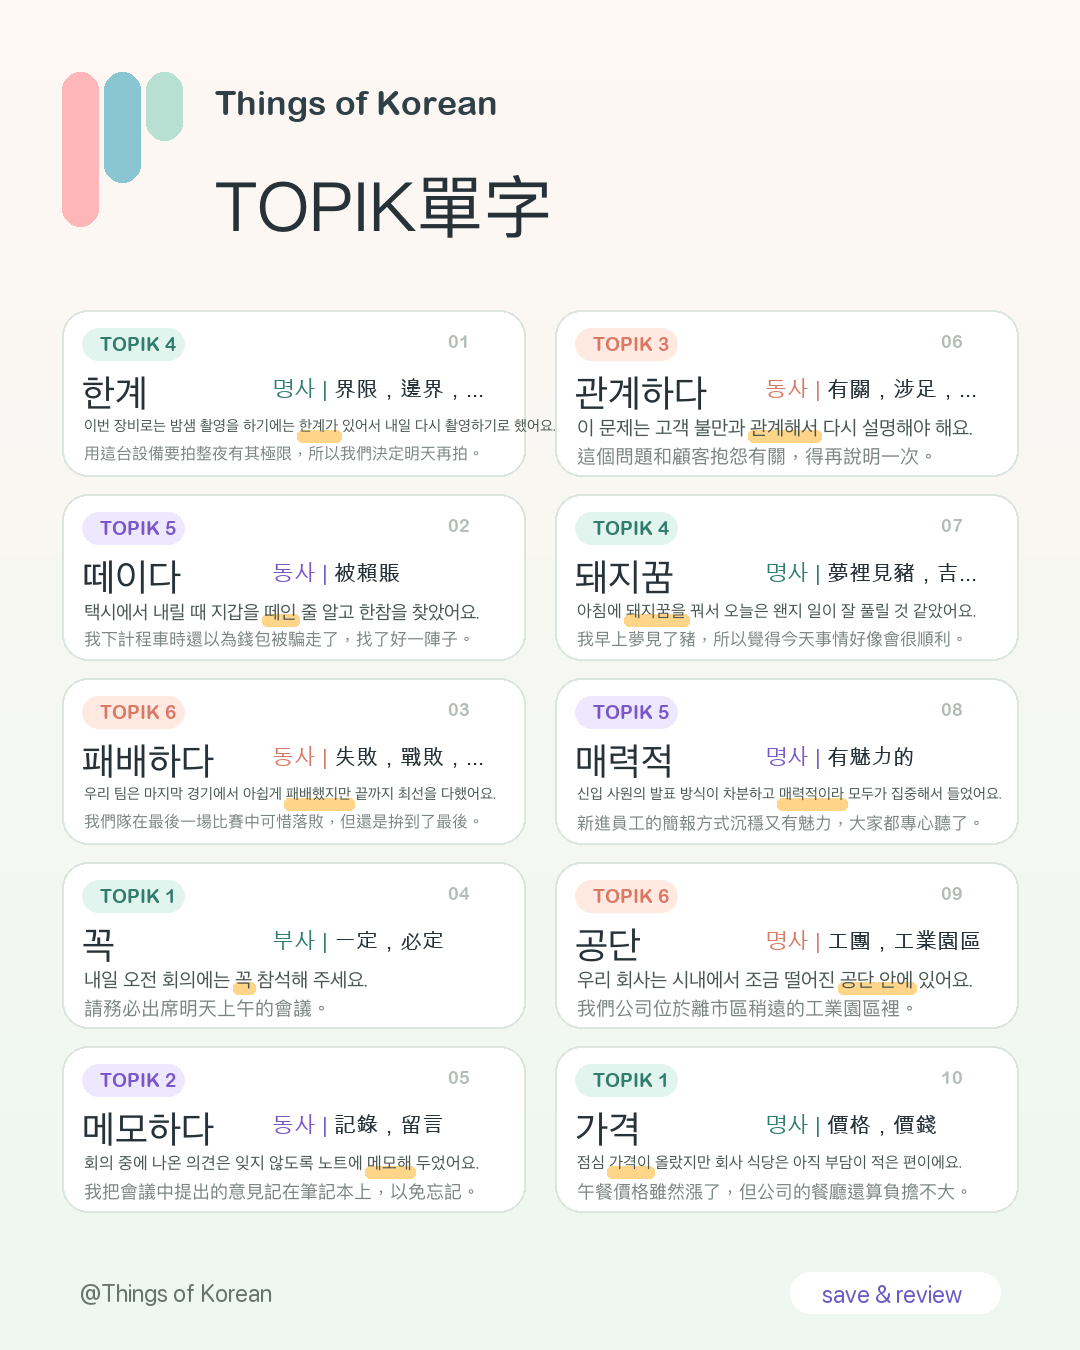
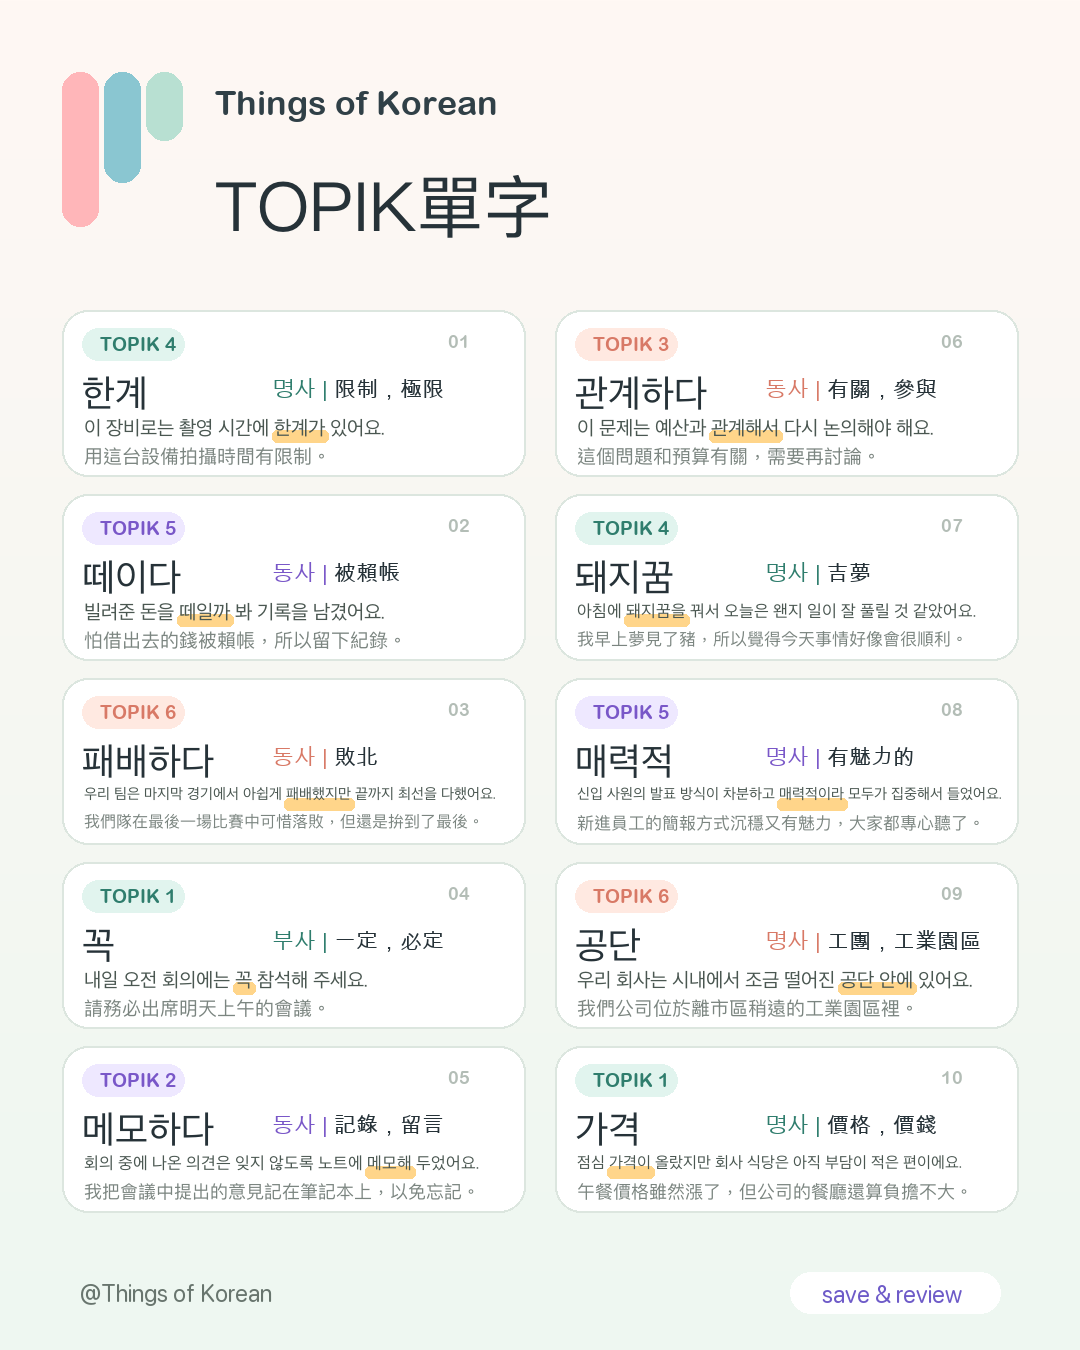
Refine 2026-07-09 TOPIK vocab image

diff --git a/scripts/render-ig-images.py b/scripts/render-ig-images.py
@@ -107,6 +107,62 @@ VOCAB_OVERRIDES = {
         "exampleZh": "隨著會議規則變得更民主化，新進員工也能自由發表意見。",
         "highlight": "민주화되면서",
     },
+    "한계": {
+        "translation": "限制，極限",
+        "exampleKo": "이 장비로는 촬영 시간에 한계가 있어요.",
+        "exampleZh": "用這台設備拍攝時間有限制。",
+        "highlight": "한계가",
+    },
+    "떼이다": {
+        "translation": "被賴帳",
+        "exampleKo": "빌려준 돈을 떼일까 봐 기록을 남겼어요.",
+        "exampleZh": "怕借出去的錢被賴帳，所以留下紀錄。",
+        "highlight": "떼일까",
+    },
+    "패배하다": {
+        "translation": "敗北",
+        "exampleKo": "우리 팀은 마지막 경기에서 아쉽게 패배했지만 끝까지 최선을 다했어요.",
+        "exampleZh": "我們隊在最後一場比賽中可惜落敗，但還是拚到了最後。",
+        "highlight": "패배했지만",
+    },
+    "꼭": {
+        "exampleKo": "내일 오전 회의에는 꼭 참석해 주세요.",
+        "exampleZh": "請務必出席明天上午的會議。",
+        "highlight": "꼭",
+    },
+    "메모하다": {
+        "exampleKo": "회의 중에 나온 의견은 잊지 않도록 노트에 메모해 두었어요.",
+        "exampleZh": "我把會議中提出的意見記在筆記本上，以免忘記。",
+        "highlight": "메모해",
+    },
+    "관계하다": {
+        "translation": "有關，參與",
+        "exampleKo": "이 문제는 예산과 관계해서 다시 논의해야 해요.",
+        "exampleZh": "這個問題和預算有關，需要再討論。",
+        "highlight": "관계해서",
+    },
+    "돼지꿈": {
+        "translation": "吉夢",
+        "exampleKo": "아침에 돼지꿈을 꿔서 오늘은 왠지 일이 잘 풀릴 것 같았어요.",
+        "exampleZh": "我早上夢見了豬，所以覺得今天事情好像會很順利。",
+        "highlight": "돼지꿈을",
+    },
+    "매력적": {
+        "translation": "有魅力的",
+        "exampleKo": "신입 사원의 발표 방식이 차분하고 매력적이라 모두가 집중해서 들었어요.",
+        "exampleZh": "新進員工的簡報方式沉穩又有魅力，大家都專心聽了。",
+        "highlight": "매력적이라",
+    },
+    "공단": {
+        "exampleKo": "우리 회사는 시내에서 조금 떨어진 공단 안에 있어요.",
+        "exampleZh": "我們公司位於離市區稍遠的工業園區裡。",
+        "highlight": "공단 안에",
+    },
+    "가격": {
+        "exampleKo": "점심 가격이 올랐지만 회사 식당은 아직 부담이 적은 편이에요.",
+        "exampleZh": "午餐價格雖然漲了，但公司的餐廳還算負擔不大。",
+        "highlight": "가격이",
+    },
     "이": {
         "exampleKo": "이 보고서는 오늘 회의에서 팀장님께 제출할 예정이에요.",
         "exampleZh": "這份報告預計今天在會議上交給組長。",
@@ -704,7 +760,16 @@ def render_vocab(rows, output_path):
         px, py = x + 210, y + 63
         draw.text((px, py), pos_text, font=FONTS["meta"], fill=accent)
         remaining_width = 225 - draw.textlength(pos_text, font=FONTS["meta"])
-        draw.text((px + draw.textlength(pos_text, font=FONTS["meta"]), py), ellipsize(draw, item["translation"], FONTS["meta"], remaining_width), font=FONTS["meta"], fill="#263238")
+        draw_fit_line(
+            draw,
+            px + draw.textlength(pos_text, font=FONTS["meta"]),
+            py,
+            item["translation"],
+            FONTS["meta"],
+            "#263238",
+            remaining_width,
+            16,
+        )
 
         draw_marker(draw, x + 22, y + 107, item["exampleKo"], item.get("highlight", item["word"]), 410, FONTS["ko"], "#4A5751")
         draw_fit_line(draw, x + 22, y + 132, translate_example(item), FONTS["zh"], "#7B8580", 410, 15)
